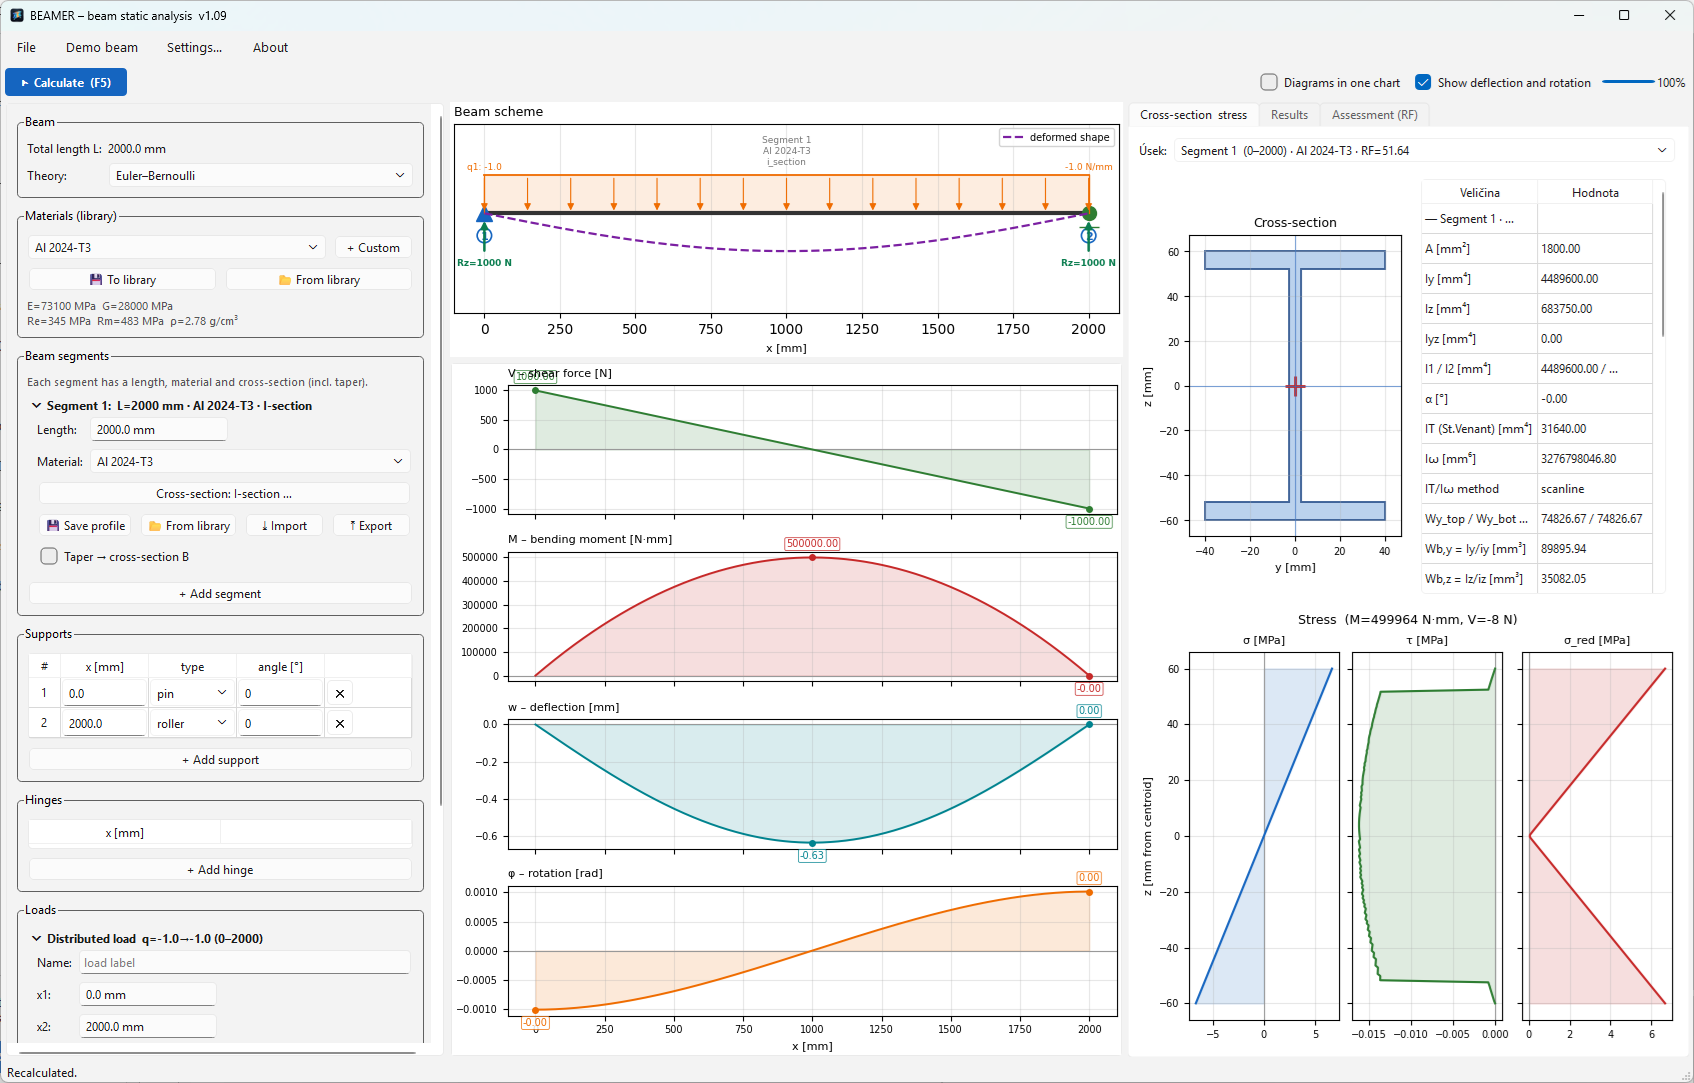
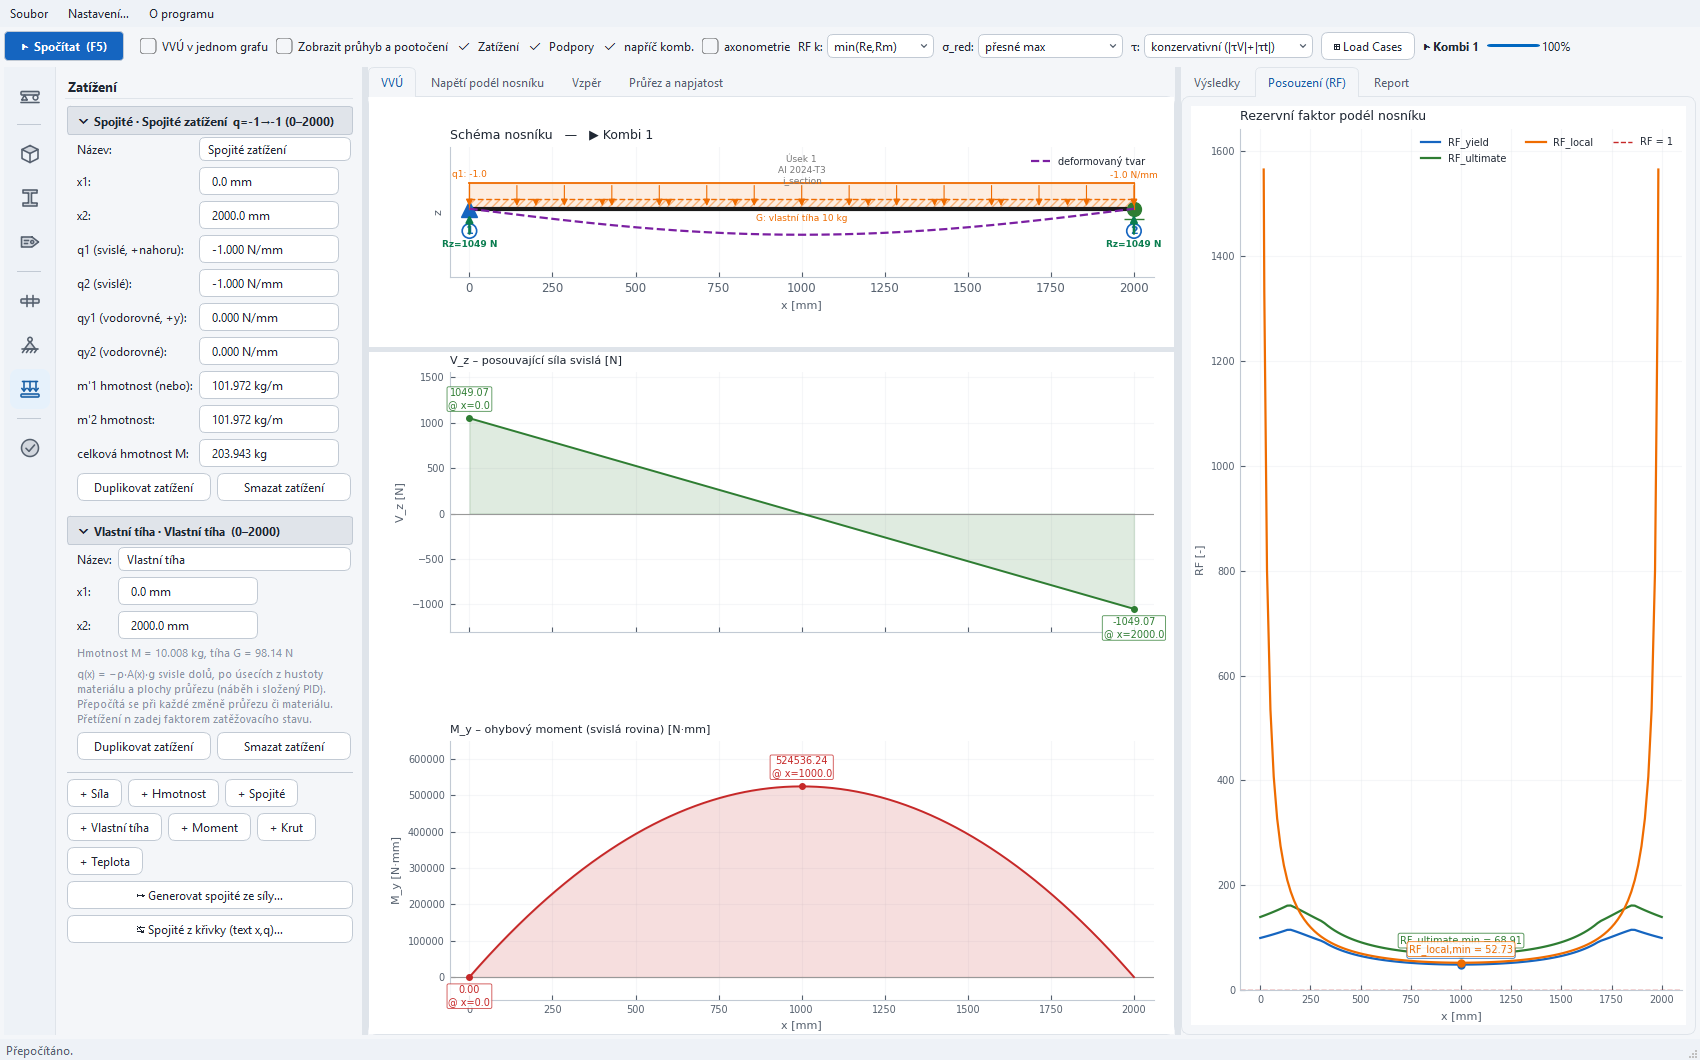
Fix headless CI tests, refresh README, screenshot and manual for v1.44
- Skip three GUI tests when PySide6 is not installed; the headless `tests`
  workflow failed on them since v1.43.
- README: new v1.44 screenshot, loads by mass and self-weight, one factor
  per load case, high-DPI support, manual link, note on GUI test skipping.
- English user manual v1.44 (chapter 15: v1.42 audit fixes, loads by mass,
  self-weight, UI and display scaling).

diff --git a/beamer/tests/test_remediation_142.py b/beamer/tests/test_remediation_142.py
@@ -222,6 +222,7 @@ def test_envelope_lists_unstable_combinations():
 
 
 def test_table_envelope_keeps_incomplete_marker_with_governing_combo():
+    pytest.importorskip("PySide6")
     from beamer.gui.loadcase_dialog import LoadCaseBuilderDialog
     from beamer.i18n import tr
 
@@ -235,6 +236,7 @@ def test_table_envelope_keeps_incomplete_marker_with_governing_combo():
 
 
 def test_loading_state_invalidates_result_and_queues_recompute_for_running_worker():
+    pytest.importorskip("PySide6")
     from types import SimpleNamespace
 
     from beamer.gui.main_window import MainWindow

diff --git a/beamer/tests/test_section_import.py b/beamer/tests/test_section_import.py
@@ -144,6 +144,7 @@ def test_iges_arc_bspline_and_transform_primitives():
 
 
 def test_section_dialog_exposes_text_and_iges_imports():
+    pytest.importorskip("PySide6")
     from PySide6.QtWidgets import QApplication
 
     from beamer.gui.section_dialog import SectionEditorDialog

diff --git a/README.md b/README.md
@@ -17,7 +17,7 @@ Current release: **1.44**.
 > ⚠ This repository is **read-only**. Issues are welcome, but external pull
 > requests are not accepted at this time.
 
-![BEAMER application screenshot](assets/screenshot.png)
+![BEAMER v1.44 – demo beam with self-weight: load card, internal forces and reserve factor along the beam (Czech UI)](assets/screenshot.png)
 
 > ### ⚠ Disclaimer
 >
@@ -68,8 +68,14 @@ Current release: **1.44**.
   **prescribed settlement**. Point forces, moments, torsion, distributed loads
   (including from a pasted *x, q* curve) and **thermal** loads — uniform ΔT
   (axial) and a **through-depth gradient** (thermal curvature / bending).
-- **Load combinations & envelope** — an **envelope** of internal forces and RF
-  across all combinations, plus a **conservative** hand-analysis-style check.
+- **Loads by mass & self-weight** — point loads from a mass *m* [kg], distributed
+  loads from *m′* [kg/m] or a total mass *M*, and an automatic **beam
+  self-weight** *q(x) = −ρ·A(x)·g* derived per segment from material density and
+  section area (tapers and composite sections included). A load factor *n* is
+  applied as the load-case factor.
+- **Load combinations & envelope** — combinations with one factor per load
+  case, an **envelope** of internal forces and RF across all combinations, plus
+  a **conservative** hand-analysis-style check.
 - **Column buckling** — a per-segment Johnson–Euler check (weak axis, editable
   buckling-length factor μ) and a **system eigenvalue buckling analysis** (phase
   2): the critical load factor and mode shape from the geometric stiffness
@@ -81,7 +87,8 @@ Current release: **1.44**.
 - **Files & export** — human-readable JSON projects; polygon import from text
   coordinates and a planar IGES/IGS subset; text and **DOCX** reports; PNG
   export of diagrams.
-- **Bilingual UI** — English / Czech (switchable in Settings).
+- **Bilingual UI** — English / Czech (switchable in Settings); supports high
+  Windows display scaling (150–300 %) with an extra "Interface scale" setting.
 
 ---
 
@@ -116,7 +123,8 @@ To package BEAMER into a single standalone `.exe`, see
 ## Documentation
 
 A full user manual is available:
-[manual/BEAMER_manual_EN_v1.41.docx](manual/BEAMER_manual_EN_v1.41.docx).
+[manual/BEAMER_manual_EN_v1.44.docx](manual/BEAMER_manual_EN_v1.44.docx)
+(covers v1.44; older editions are kept in [manual/](manual/)).
 
 ## Tests
 
@@ -128,6 +136,9 @@ Euler–Bernoulli, stress sign convention):
 pip install -r requirements-dev.txt
 python -m pytest beamer/tests/ -v
 ```
+
+GUI smoke tests are skipped automatically when PySide6 is not installed (the
+`tests` CI workflow runs headless, the `quality` workflow runs the full suite).
 
 ---
 
